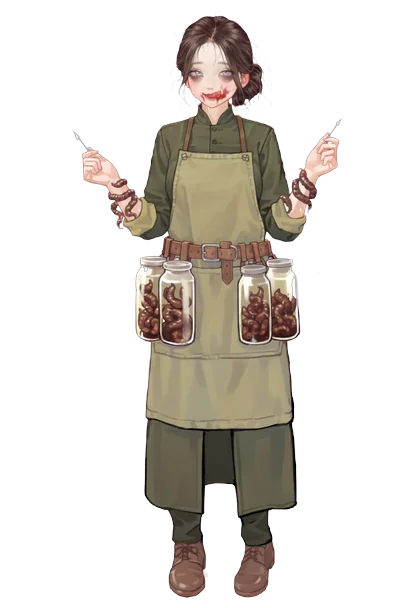
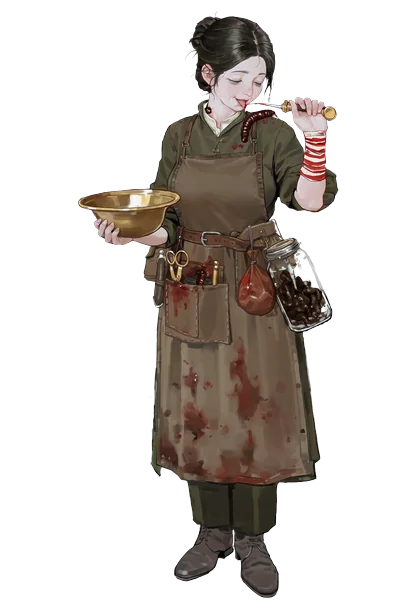
Redraw 放血师 and 守夜人 with only the artist tags
Both earlier draws went through the transparent-character mode, which
appends its own style tags (simple design, clean lineart, very
aesthetic...) and came out flat. They are regenerated with plain
generation, quality preset off, and nothing but the transparency tags,
the roster's artist string and the character description. The README
now records this method instead of the character mode.

diff --git a/sin-squad-core/README.md b/sin-squad-core/README.md
@@ -83,7 +83,7 @@ npm run build:web                 # 打包到仓库根目录的 sin-squad-v3/
 人物立绘放在 `web/art/<人物编号>.webp`（透明背景，约 416×608），打包时自动带上；没有立绘的人物用罪的纹样代替。
 
 背景音乐放在 `web/audio/<曲名>.mp3`：`menu`（入场各屏，循环）、`bet`（牌桌各阶段，循环）、`battle`（战斗，循环）、`win` / `lose`（胜负，每场只放一次，放完回到牌桌音乐；读档摆出来的战斗不放）。打包时自动带上，换曲逻辑在 `web/music.ts`，玩家可以用顶栏或入场界面右上角的 ♪ 按钮静音。曲子用 Suno v6 生成，已去掉首尾静音、统一到 −18 LUFS，编码为 96 kbps MP3。
-现有立绘用 NovelAI 的透明背景角色模式生成（只描述人物和姿势，不写背景），再按透明区域裁紧、缩放成 webp。
+立绘用 NovelAI 普通生成（832×1216，质量预设关掉），提示词只有 `2.1::transparent background::, has alpha,` + 下面的画风标签 + 人物和姿势描述，不写背景，也不加任何其他画风、质量标签（透明背景角色模式会自动追加 simple design、clean lineart 等，画出来偏平涂，别用）。再按透明区域裁紧，顶端对齐缩放到 416×608 的 webp。
 画风统一用这组标签开头：`1.1::artist:solipsist ::, 0.5::kakure eria ::, 0.6::VillainchinR18 ::, year 2025, 0.65::artist:windforcelan ::`；
 每种罪一个主色调：愤怒深红、贪婪金、暴食橄榄绿、嫉妒青绿、怠惰灰蓝、傲慢紫、色欲玫粉。
 
